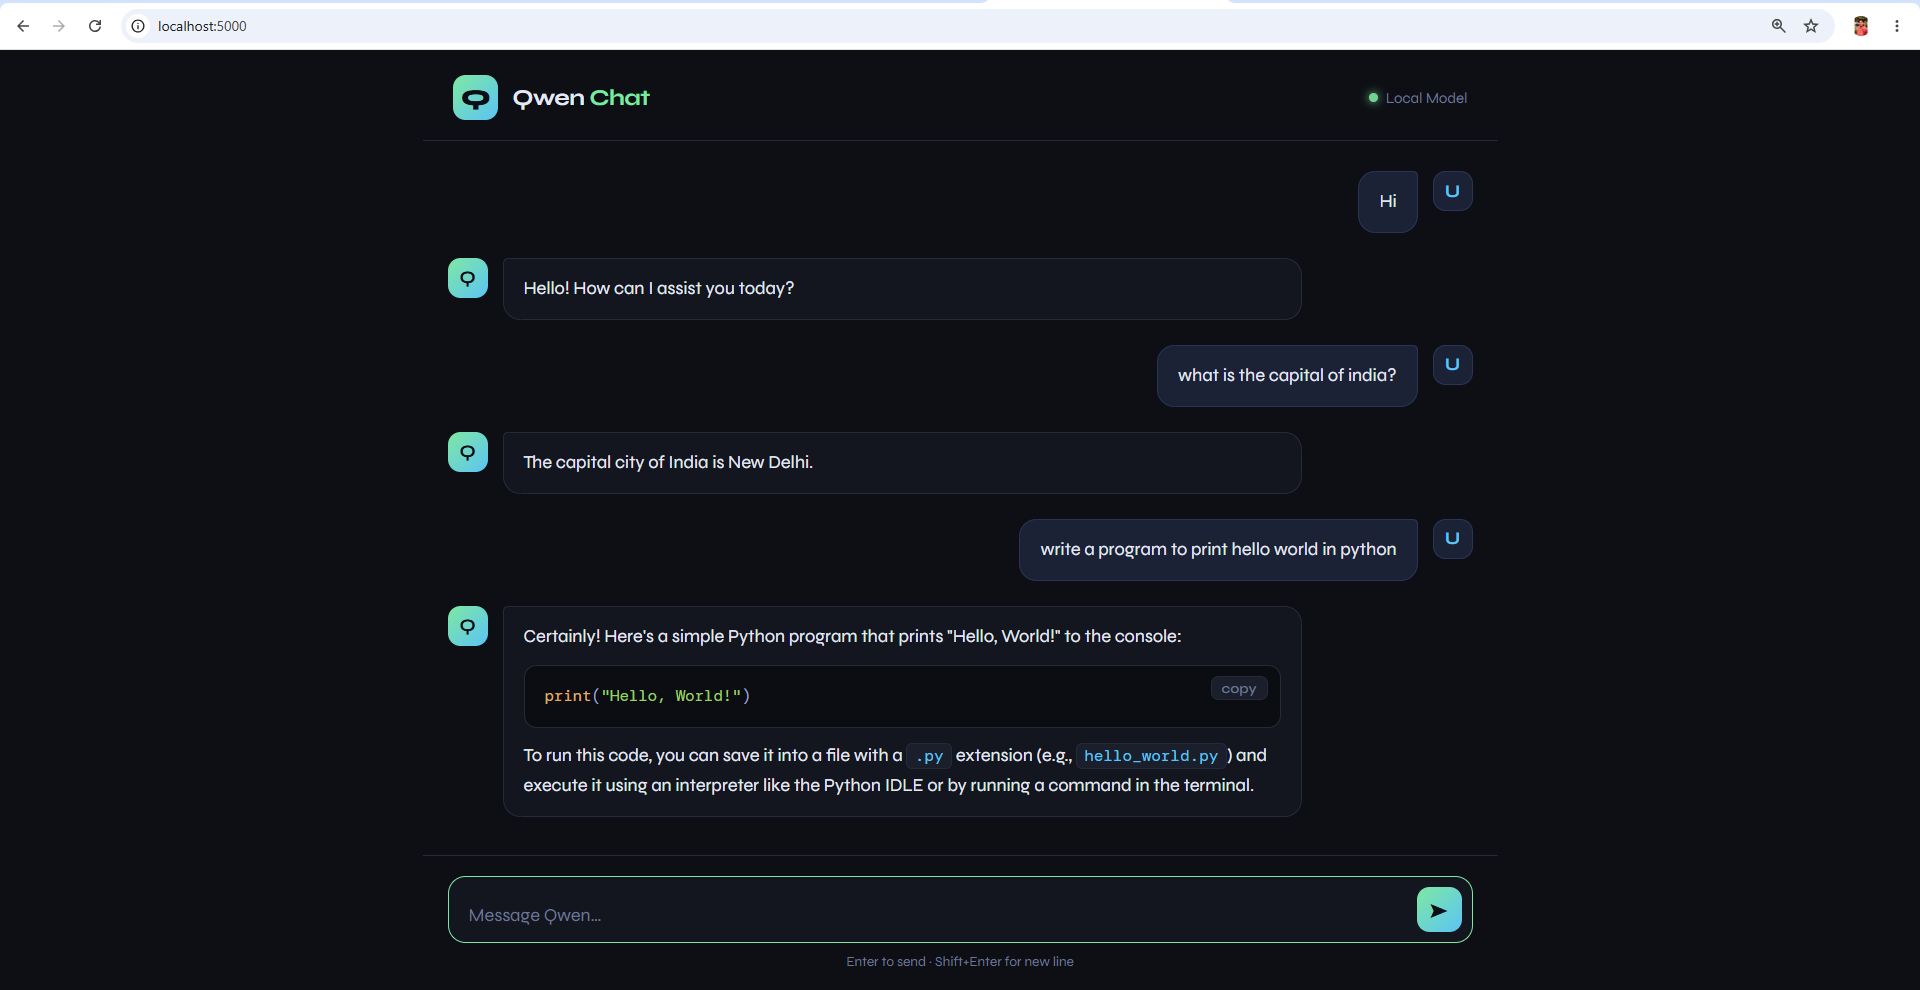
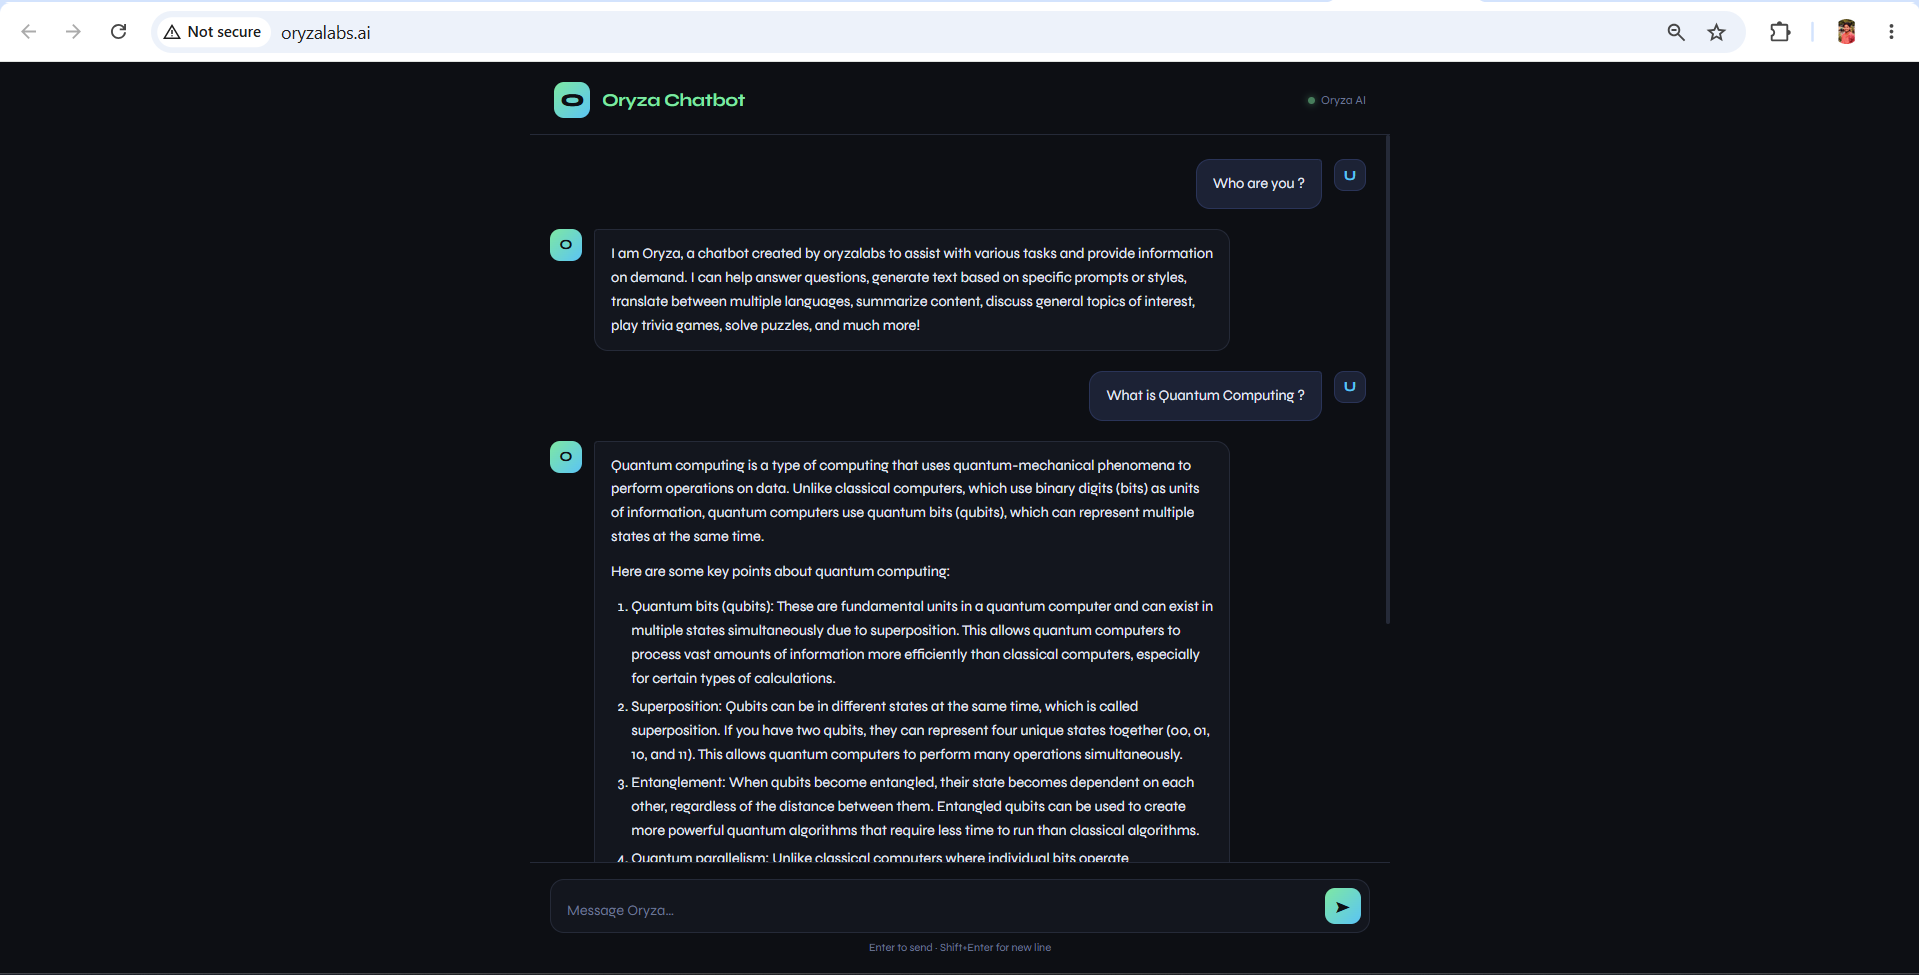
From Oryza labs

diff --git a/templates/index.html b/templates/index.html
@@ -3,7 +3,7 @@
 <head>
   <meta charset="UTF-8" />
   <meta name="viewport" content="width=device-width, initial-scale=1.0" />
-  <title>Qwen Chat</title>
+  <title>Oryza Chatbot</title>
   <link rel="preconnect" href="https://fonts.googleapis.com" />
   <link href="https://fonts.googleapis.com/css2?family=DM+Mono:ital,wght@0,300;0,400;0,500;1,400&family=Syne:wght@400;600;700;800&display=swap" rel="stylesheet" />
   <!-- marked.js for markdown parsing -->
@@ -317,15 +317,15 @@
 <body>
 <div id="app">
   <header>
-    <div class="logo">Q</div>
-    <h1>Qwen <span>Chat</span></h1>
-    <div class="status-dot"><div class="dot"></div>Local Model</div>
+    <div class="logo">O</div>
+    <h1><span>Oryza Chatbot</span></h1>
+    <div class="status-dot"><div class="dot"></div>Oryza AI</div>
   </header>
 
   <div id="messages">
     <div id="empty">
       <div class="big-icon">✦</div>
-      <p>Start a conversation with your local Qwen model.</p>
+      <p>Start a conversation with your Oryza chatbot.</p>
       <div class="chips">
         <span class="chip" onclick="useChip(this)">Explain quantum computing</span>
         <span class="chip" onclick="useChip(this)">Write a Python script</span>
@@ -336,7 +336,7 @@
 
   <div id="input-bar">
     <div class="input-wrap">
-      <textarea id="prompt" rows="1" placeholder="Message Qwen…"></textarea>
+      <textarea id="prompt" rows="1" placeholder="Message Oryza…"></textarea>
       <button id="send-btn" onclick="sendPrompt()" title="Send (Enter)">➤</button>
     </div>
     <p class="hint">Enter to send · Shift+Enter for new line</p>
@@ -364,7 +364,18 @@
   }
 
   // ── Parse Qwen's <think>…</think> tags ──
+  function normalizeResponse(raw) {
+    return raw
+      .replace(/I am Qwen, a large language model developed by Alibaba Cloud/gi, 'I am Oryza, a chatbot developed by oryzalabs')
+      .replace(/\bQwen Chat\b/gi, 'Oryza Chatbot')
+      .replace(/\bQwen\b/gi, 'Oryza')
+      .replace(/Alibaba Cloud/gi, 'oryzalabs')
+      .replace(/large language model/gi, 'chatbot')
+      .replace(/language model/gi, 'chatbot');
+  }
+
   function parseQwenResponse(raw) {
+    raw = normalizeResponse(raw);
     const thinkRegex = /<think>([\s\S]*?)<\/think>/gi;
     let thinking = [];
     let match;
@@ -438,7 +449,7 @@
 
     const avatar = document.createElement('div');
     avatar.className = 'avatar';
-    avatar.textContent = role === 'user' ? 'U' : 'Q';
+    avatar.textContent = role === 'user' ? 'U' : 'O';
 
     const bubble = document.createElement('div');
     bubble.className = 'bubble';
@@ -469,7 +480,7 @@
     const row = document.createElement('div');
     row.className = 'msg assistant'; row.id = 'typing-row';
     row.innerHTML = `
-      <div class="avatar">Q</div>
+      <div class="avatar">O</div>
       <div class="bubble" style="padding:14px 16px">
         <div class="typing-indicator">
           <span></span><span></span><span></span>

diff --git a/tests/test_app.py b/tests/test_app.py
@@ -1,0 +1,14 @@
+import os
+import unittest
+
+from app.main import app
+
+
+class AppConfigTests(unittest.TestCase):
+    def test_template_folder_exists(self):
+        self.assertTrue(os.path.isdir(app.template_folder))
+        self.assertTrue(os.path.exists(os.path.join(app.template_folder, "index.html")))
+
+
+if __name__ == "__main__":
+    unittest.main()

diff --git a/Readme.md b/Readme.md
@@ -1,49 +1,40 @@
-# QwenChat
+# Oryza Chatbot
 
-QwenChat is a lightweight AI chat application powered by the Qwen Large Language Model running locally through Ollama. The project provides a simple interface for interacting with Qwen models without relying on external cloud APIs, enabling private and offline conversations.
+Oryza Chatbot is a lightweight AI assistant that runs locally through Ollama and serves a clean web interface for chatting with a local model. It is designed for privacy-friendly, self-hosted use and can be deployed with Docker.
 
 ## Features
 
 - Local AI chat using Ollama
-- Powered by Qwen language models
+- Oryza-branded web interface
 - Fast response generation
-- Privacy-focused (data remains on your machine)
-- Simple and easy-to-use interface
-- REST API integration with Ollama
-- Lightweight deployment
+- Privacy-focused deployment on your own machine
+- Simple Flask-based chat UI
+- Docker-ready setup with Nginx reverse proxy
 
 ## Tech Stack
 
 - Python
 - Flask
 - Ollama
-- Qwen Models
 - HTML/CSS/JavaScript
+- Docker / Docker Compose
 
 ## Prerequisites
 
 Before running the project, ensure you have:
 
 - Python 3.10+
+- Docker and Docker Compose
 - Ollama installed
-- A Qwen model pulled locally
-
-Example:
+- A local model pulled, for example:
 
 ```bash
-ollama pull qwen3
-````
-
-## Installation
-
-Clone the repository:
-
-```bash
-git clone https://github.com/your-username/QwenChat.git
-cd QwenChat
+ollama pull qwen2.5:1.5b
 ```
 
-Create a virtual environment:
+## Local Development
+
+Create and activate a virtual environment:
 
 ```bash
 python -m venv venv
@@ -56,60 +47,64 @@ Install dependencies:
 pip install -r requirements.txt
 ```
 
-## Running Ollama
-
-Start the Ollama service:
+Run the app locally:
 
 ```bash
-ollama serve
+python app/main.py
 ```
 
-Verify the model is available:
-
-```bash
-ollama list
-```
-
-## Running the Application
-
-```bash
-python app.py
-```
-
-Open your browser and navigate to:
+Open your browser at:
 
 ```text
 http://localhost:5000
 ```
 
+## Docker Deployment
+
+From the project root, run:
+
+```bash
+docker compose up -d --build
+```
+
+The app will be served through the proxy on:
+
+```text
+http://localhost/
+```
+
+For a custom domain, update the Nginx host configuration in `nginx.conf` and point your DNS to the server IP.
+
 ## Project Structure
 
 ```text
-QwenChat/
-├── app.py
-├── requirements.txt
+Qwen-Chat/
+├── app/
+│   └── main.py
 ├── templates/
-├── static/
-├── README.md
-└── screenshots/
+│   └── index.html
+├── docker-compose.yml
+├── Dockerfile
+├── nginx.conf
+├── requirements.txt
+└── README.md
 ```
 
 ## How It Works
 
-1. User submits a prompt through the chat interface.
-2. Flask receives the request.
-3. The application sends the prompt to Ollama.
-4. Ollama runs the local Qwen model.
-5. The generated response is returned to the user interface.
+1. The Flask app receives the user prompt.
+2. It sends the prompt to Ollama.
+3. Ollama runs the selected local model.
+4. The generated response is returned to the web UI.
 
 ## Future Improvements
 
-* Conversation history
-* Streaming responses
-* Multiple model selection
-* Dark mode
-* User authentication
-* Docker deployment
+- Conversation history
+- Streaming responses
+- Multiple model selection
+- Dark mode
+- Authentication
+- HTTPS with Let’s Encrypt
 
 ## License
 
@@ -117,6 +112,4 @@ This project is licensed under the MIT License.
 
 ## Author
 
-Rushikesh Mohalkar
-
-![User Interface](./images/ui.png)
+Oryza Labs - Rushikesh Mohalkar

diff --git a/task.md b/task.md
@@ -1,3 +1,3 @@
--> fine tune this chatbot 
--> implement RAG 
--> deploy it on doctor 
+- -> fine tune this chatbot 
+- -> implement RAG 
+- -> deploy it on doctor  - Done 